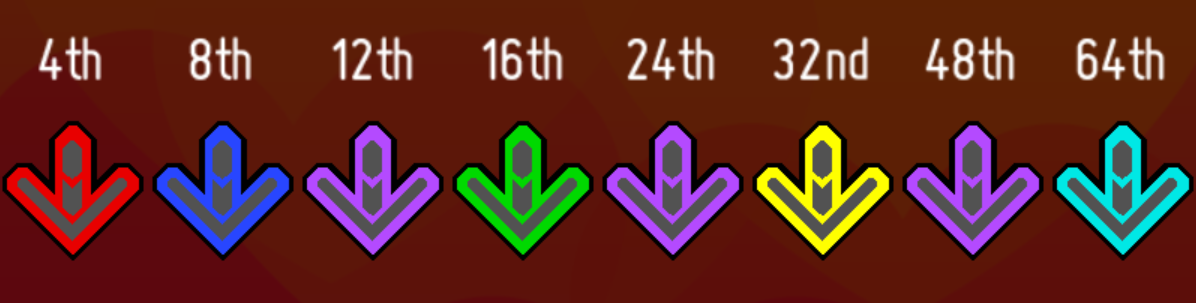
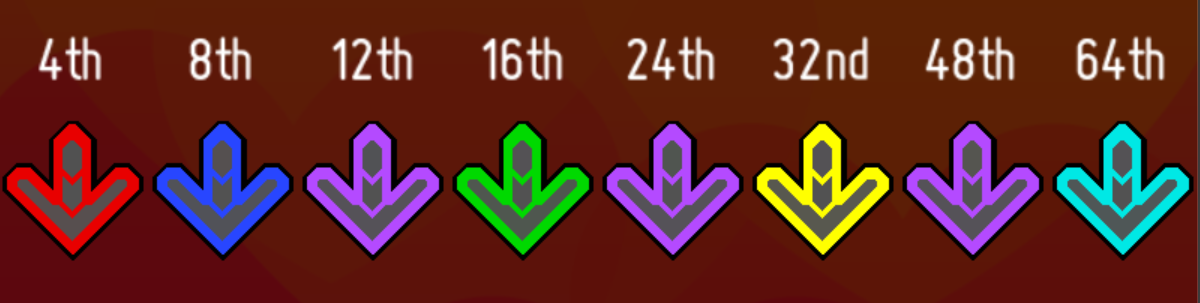
modernize my ass

diff --git a/THE_PROGRAM/THE_PROGRAM.py b/THE_PROGRAM/THE_PROGRAM.py
@@ -1580,7 +1580,7 @@ def install_skin(CURRENT_PATH):
     if selected_game == "Outfox-ITGmania-Etterna":
         messagebox.showinfo("Notice", "Noteskin installed. Reload theme and textures (F2 or F3+F6+6) in your GAME to apply the changes.")
     else:
-        messagebox.showinfo("Notice", "Noteskin installed. Restart the GAME to apply the changes.")
+        messagebox.showinfo("Notice", "Noteskin installed. Restart the GAME, or open the in-game console (Ctrl+F9 by default) and type GAMESTATE:ApplyGameCommand('reloadtheme'), to apply the changes.")
     return True
 
 
@@ -1729,6 +1729,9 @@ def on_mousewheel(event):
         if widget in (page2_canvas, page3_canvas):
             break
 
+        if not isinstance(widget, tk.Misc):
+            return "break"
+
         parent = widget.winfo_parent()
         if not parent:
             return "break"
@@ -1865,7 +1868,7 @@ TEST_SUITE_CONFIG = {
             "Arrow Settings - Arrow Gradient/NotITG/Frame": ["Normal Scroll (default)"],
             "Arrow Settings - Arrow Gradient/NotITG/Shine (RGB-Vivid-CAMidi-Only)": ["Normal Scroll (default)"],
             "Arrow Settings - Freeze Arrows": ["Off (default)"],
-            "Arrows": ["Dev Modernized"],
+            "Arrows": ["Dev Modernized Alt"],
             "Hold Explosions": ["Minimal (default)","White (default)"],
             "Holds": ["ITGstyled (default)","White"],
             "Mine Explosions": ["Default (default)"],
